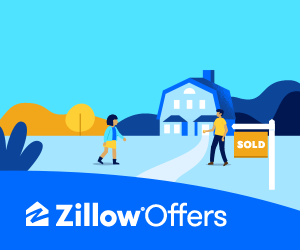
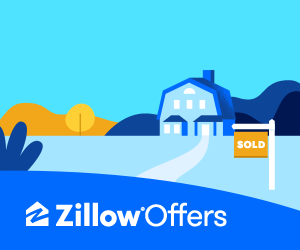
Animation Update

Changed region(s): [[0.66, 0.42, 0.78, 0.672], [0.3, 0.448, 0.42, 0.672]]

diff --git a/app/BoZ_300x250/scripts/Animation.js b/app/BoZ_300x250/scripts/Animation.js
@@ -5,6 +5,7 @@ app.Animation = (function () {
 
     var t = TweenMax;
     var tl1 = new TimelineMax();
+    var tl2 = new TimelineMax({paused: true});
 
 
     var txt1a = document.getElementById('txt1a');
@@ -24,10 +25,13 @@ app.Animation = (function () {
     var txt5b = document.getElementById('txt5b');
     var txt5c = document.getElementById('txt5c');
 
-    var logo = document.getElementById('logo');
+    // var logo = document.getElementById('logo');
     var cta = document.getElementById('cta');
 
     var curtain = document.getElementById('curtain');
+
+    var flag = document.getElementById('flag');
+    var sprite = document.getElementById('sprite');
 
     var banner = document.getElementById('banner');
     var buttonExit = document.getElementById('button-exit');
@@ -78,15 +82,23 @@ app.Animation = (function () {
             .from(txt4b, .5, {y: "-=10", opacity: 0, ease: Sine.easeInOut})
             .from(txt4c, .5, {y: "-=10", opacity: 0, ease: Sine.easeInOut})
 
-            .from(curtain, .75, {opacity: 0}, "+=1.5")
+            .from(curtain, .75, {
+                opacity: 0, onComplete: function () {
+                    tl2.play();
+                }
+            }, "+=1.5")
 
-            .from(logo, 1.5, {y: "-=10", opacity: 0, ease: Sine.easeInOut})
+            .from(flag, 1.5, {y: "-=10", opacity: 0, ease: Sine.easeInOut})
             .from(txt5a, .75, {y: "-=10", opacity: 0, ease: Sine.easeInOut}, "-=1")
             .from(txt5b, .75, {y: "-=10", opacity: 0, ease: Sine.easeInOut}, "-=.25")
             .from(txt5c, 1.5, {y: "-=10", opacity: 0, ease: Sine.easeInOut}, "-=1.5")
 
 
             .from(cta, 1, {scale: 0, opacity: 0, ease: Elastic.easeInOut}, "-=.25");
+
+        tl2.to(flag, 0.1, {display: "block"})
+            .to(sprite, 1, {x: -1824, ease: SteppedEase.config(24)});
+
 
     }
 

diff --git a/app/Rentals_300x250/scripts/Animation.js b/app/Rentals_300x250/scripts/Animation.js
@@ -5,6 +5,7 @@ app.Animation = (function () {
 
     var t = TweenMax;
     var tl1 = new TimelineMax();
+    var tl2 = new TimelineMax();
 
 
     var txt1a = document.getElementById('txt1a');
@@ -35,6 +36,9 @@ app.Animation = (function () {
 
     var curtain = document.getElementById('curtain');
 
+    var dog = document.getElementById('dog');
+    var sprite = document.getElementById('sprite');
+
     var banner = document.getElementById('banner');
     var buttonExit = document.getElementById('button-exit');
 
@@ -45,6 +49,9 @@ app.Animation = (function () {
 
         t.set(banner, {opacity: 1});
         t.set(cta, {transformOrigin: "50% 70%"});
+        t.set(dog, {display: "block"});
+        // t.set(sprite, {y:-8127});
+
 
         buttonExit.addEventListener('mouseover', function () {
             // t.to(cta_bg, .25, {backgroundColor: "rgba(211, 78, 255, 1)"});
@@ -99,6 +106,8 @@ app.Animation = (function () {
             .from(tagline, .8, {opacity: 0, ease: Sine.easeInOut}, "-=.8")
 
             .from(cta, 1, {scale: 0, opacity: 0, ease: Elastic.easeInOut}, "-=.25");
+
+        tl2.to(sprite, 5, {repeat:-1, x: -8040, ease: SteppedEase.config(24)});
 
     }
 

diff --git a/app/ZO_300x250/scripts/Animation.js b/app/ZO_300x250/scripts/Animation.js
@@ -5,6 +5,7 @@ app.Animation = (function () {
 
     var t = TweenMax;
     var tl1 = new TimelineMax();
+    var tl2 = new TimelineMax();
 
 
     var txt1a = document.getElementById('txt1a');
@@ -19,6 +20,9 @@ app.Animation = (function () {
     var cta = document.getElementById('cta');
 
     var curtain = document.getElementById('curtain');
+
+    // var ball = document.getElementById('catch');
+    var sprite = document.getElementById('sprite');
 
     var banner = document.getElementById('banner');
     var buttonExit = document.getElementById('button-exit');
@@ -72,6 +76,9 @@ app.Animation = (function () {
             .from(txt6, .5, {opacity:0, ease: Sine.easeInOut},"-=.75")
 
             .from(cta, 1, {scale: 0, opacity: 0, ease: Elastic.easeInOut}, "-=.25");
+
+        tl2.to(sprite, 3, {repeat:5, y: -5760, ease: SteppedEase.config(20)});
+
 
     }
 

diff --git a/app/Rentals_300x250/index.html b/app/Rentals_300x250/index.html
@@ -30,6 +30,12 @@
     <img id="txt4a" class="default" src="images/txt4.png" alt=""/>
     <img id="txt4b" class="default" src="images/txt4.png" alt=""/>
 
+    <div id="dog">
+        <div class="container">
+            <img id="sprite" src="images/dog-h.png">
+        </div>
+    </div>
+
     <div id="curtain" class="default"></div>
 
     <img id="house" class="default" src="images/house.png" alt=""/>
@@ -43,6 +49,8 @@
     <img id="tagline" class="default" src="images/tagline.png" alt=""/>
 
     <img id="cta" class="default" src="images/cta.png" alt=""/>
+
+
 
     <div id="border"></div>
     <div id="button-exit"></div>

diff --git a/app/BoZ_300x250/index.html b/app/BoZ_300x250/index.html
@@ -41,7 +41,13 @@
     <img id="txt5c" class="default" src="images/txt5.png" alt=""/>
 
     <img id="cta" class="default" src="images/cta.png" alt=""/>
-    <img id="logo" class="default" src="images/logo.png" alt=""/>
+    <!--<img id="logo" class="default" src="images/logo.png" alt=""/>-->
+
+    <div id="flag">
+        <div class="container">
+            <img id="sprite" src="images/BoZ_Logo.png">
+        </div>
+    </div>
 
 
 

diff --git a/app/ZO_300x250/index.html b/app/ZO_300x250/index.html
@@ -24,6 +24,12 @@
     <img id="txt4" class="default" src="images/txt4.png" alt=""/>
     <img id="txt5" class="default" src="images/txt5.png" alt=""/>
 
+    <div id="catch">
+        <div class="container">
+            <img id="sprite" src="images/catch.png">
+        </div>
+    </div>
+
     <div id="curtain" class="default"></div>
 
     <img id="txt6" class="default" src="images/resolve.png" alt=""/>

diff --git a/app/Rentals_300x250/styles/_layout.scss b/app/Rentals_300x250/styles/_layout.scss
@@ -38,6 +38,19 @@ body {
     z-index: 999;
   }
 
+  .container {
+    width: 67px;
+    height: 63px;
+    overflow: hidden;
+    position: absolute;
+    right: 0;
+    top: 140px;
+  }
+
+  #dog {
+    display: none;
+  }
+
   #txt1a, #txt2a, #txt3a, #txt4a {
     clip: rect(0px, 300px, 81px, 0px);
   }

diff --git a/app/BoZ_300x250/styles/_layout.scss b/app/BoZ_300x250/styles/_layout.scss
@@ -38,6 +38,19 @@ body {
     z-index: 999;
   }
 
+  .container {
+    width: 76px;
+    height:100px;
+    overflow: hidden;
+    position: absolute;
+    left: 41px;
+    top: 30px;
+  }
+
+  #flag {
+    display: none;
+  }
+
   #txt1a, #txt2a, #txt3a {
     clip: rect(0px, 300px, 69px, 0px);
   }

diff --git a/app/ZO_300x250/styles/_layout.scss b/app/ZO_300x250/styles/_layout.scss
@@ -38,6 +38,15 @@ body {
     z-index: 999;
   }
 
+  .container {
+    width: 140px;
+    height:72px;
+    overflow: hidden;
+    position: absolute;
+    left: 91px;
+    top: 94px;
+  }
+
   #txt1a {
     clip: rect(0px, 300px, 50px, 0px);
   }
